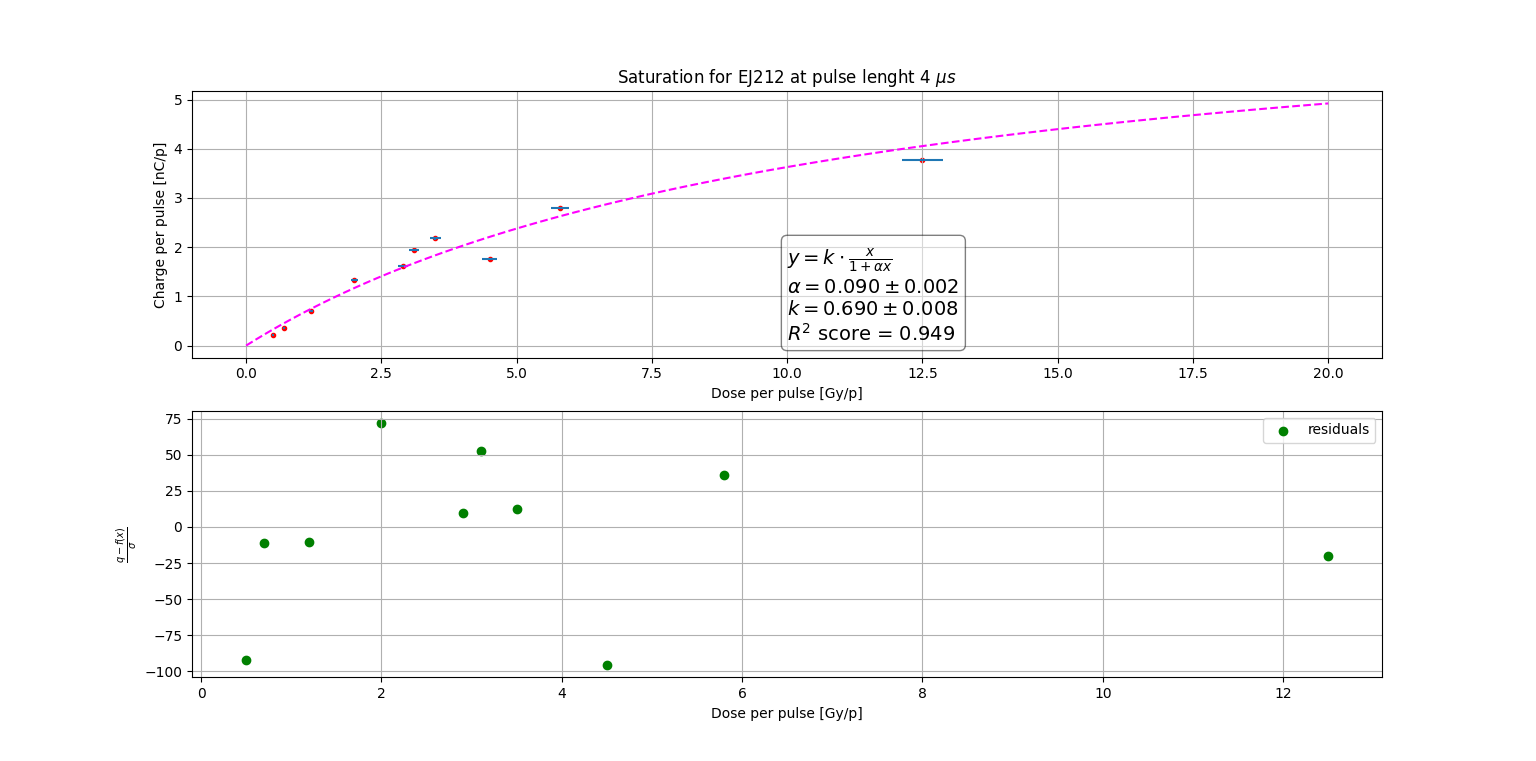
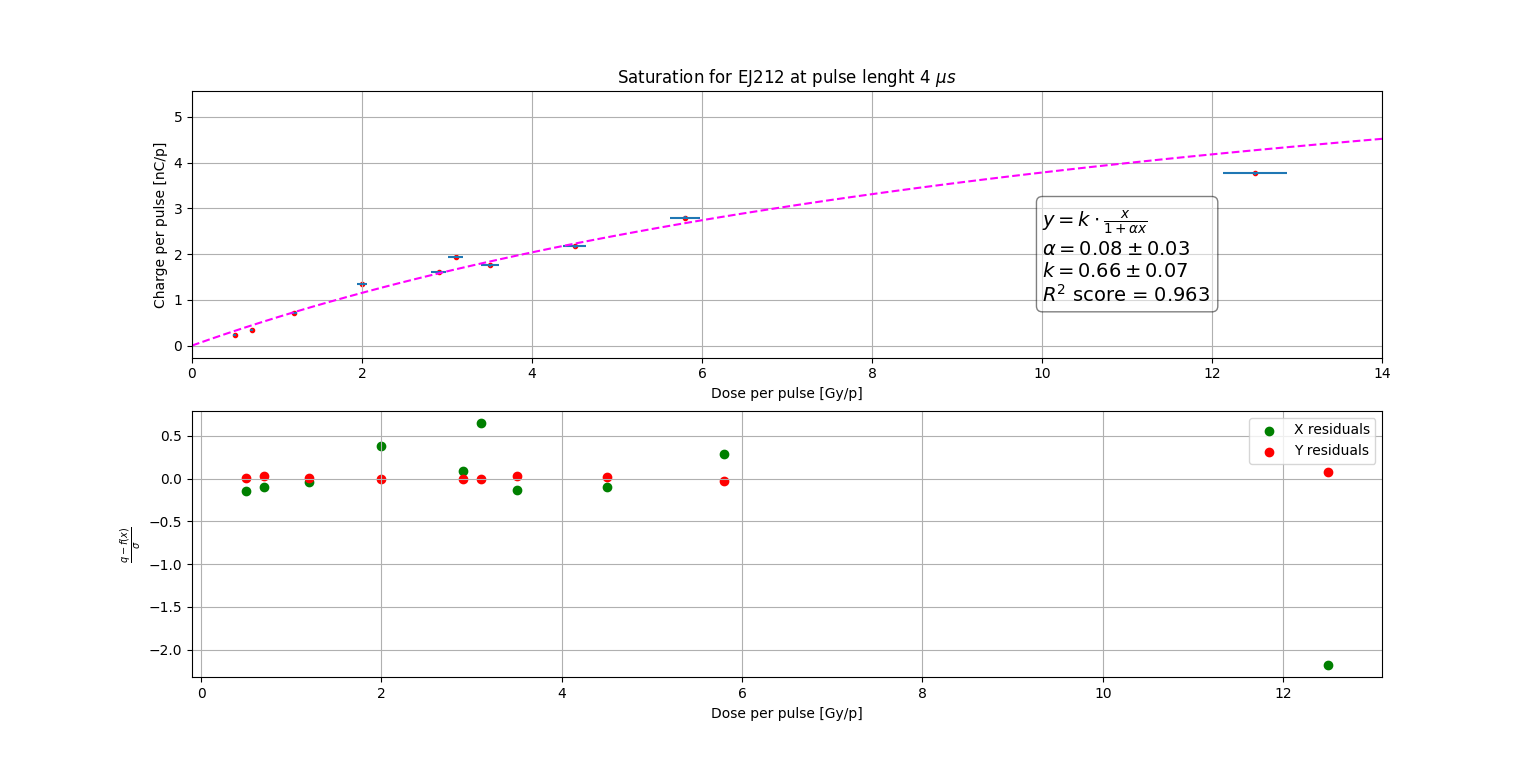
fixed residuals

diff --git a/flash_helper/flash_functions.py b/flash_helper/flash_functions.py
@@ -93,7 +93,7 @@ def model(x, alpha, k):
     return x / ((1 / k - alpha * x))
 
 
-def model_inv(beta,x):
+def model_inv(beta, x):
     """This function creates the model that relates the CPP to the DPP
 
     :type x: array
@@ -141,7 +141,7 @@ def plotter(
     cpp_sigma,
     ddp_gaf_pl,
     pulse_lenght,
-    p0_=[ 2,0.5],
+    p0_=[2, 0.5],
     detector_name="EJ212",
     cord_1=10,
     cord_2=2,
@@ -182,7 +182,7 @@ def plotter(
 
     gaf_uncertainty = 0.03 * ddp_gaf_pl
 
-    saturation=Model(model_inv)
+    saturation = Model(model_inv)
 
     mydata = RealData(ddp_gaf_pl, tmp, sx=gaf_uncertainty, sy=sigma_tmp)
 
@@ -192,26 +192,15 @@ def plotter(
 
     myoutput = myodr.run()
 
-    k__=myoutput.beta[0]
+    k__ = myoutput.beta[0]
 
-    alpha__=myoutput.beta[1]
+    alpha__ = myoutput.beta[1]
 
-    sigma_k__=myoutput.sd_beta[0]
+    sigma_k__ = myoutput.sd_beta[0]
 
-    sigma_alpha__=myoutput.sd_beta[1]
+    sigma_alpha__ = myoutput.sd_beta[1]
 
-
-    #popt, pcov = curve_fit(
-    #    model_inv, ddp_gaf_pl, tmp, p0_, sigma=sigma_tmp, absolute_sigma=False
-    #)
-
-    #sigma_alpha, sigma_k = np.sqrt(np.diagonal(pcov))
-
-    #correlation_alpha_k, correlation_k_alpha = np.sqrt(np.diagonal(np.fliplr(pcov)))
-
-    #alpha_, k_ = popt
-
-    r2 = r2_score(tmp, model_inv(  [k__,alpha__],ddp_gaf_pl))
+    r2 = r2_score(tmp, model_inv([k__, alpha__], ddp_gaf_pl))
 
     plt.figure(f"pulse lenght: {pulse_lenght}")
 
@@ -231,7 +220,7 @@ def plotter(
 
     plt.plot(
         np.linspace(0, 20, 100),
-        model_inv( [k__,alpha__],np.linspace(0, 20, 100)),
+        model_inv([k__, alpha__], np.linspace(0, 20, 100)),
         color="magenta",
         linestyle="--",
     )
@@ -255,8 +244,11 @@ def plotter(
 
     plt.xlabel("Dose per pulse [Gy/p]")
     plt.ylabel(r"$\frac{q-f(x)}{\sigma}$")
-    res = (tmp - model_inv( [k__,alpha__],ddp_gaf_pl)) / sigma_tmp
-    plt.scatter(ddp_gaf_pl, res, marker="o", color="green", label="residuals")
+    res_x = myoutput.delta
+    res_y = myoutput.eps
+    plt.scatter(ddp_gaf_pl, res_x, marker="o", color="green", label="X residuals")
+    plt.scatter(ddp_gaf_pl, res_y, marker="o", color="red", label="Y residuals")
+
     plt.legend()
     plt.grid()
 
